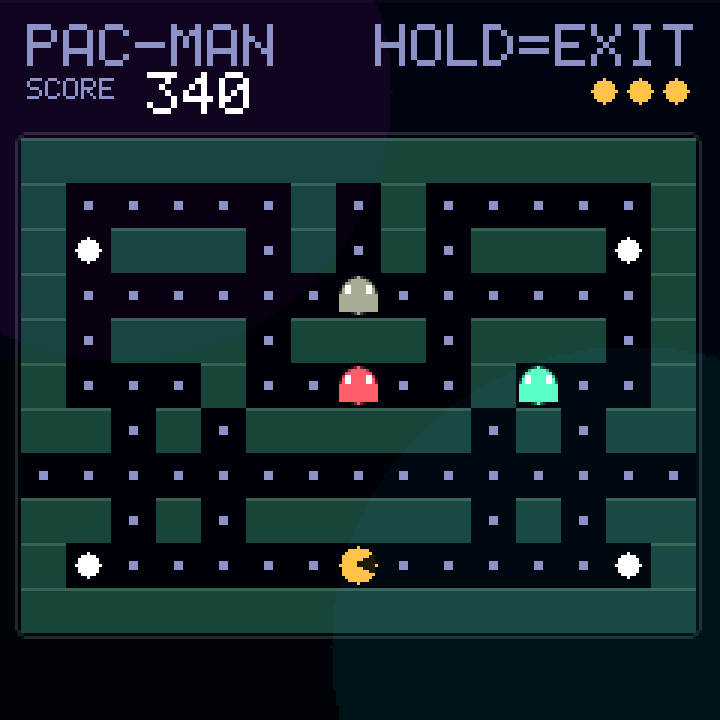
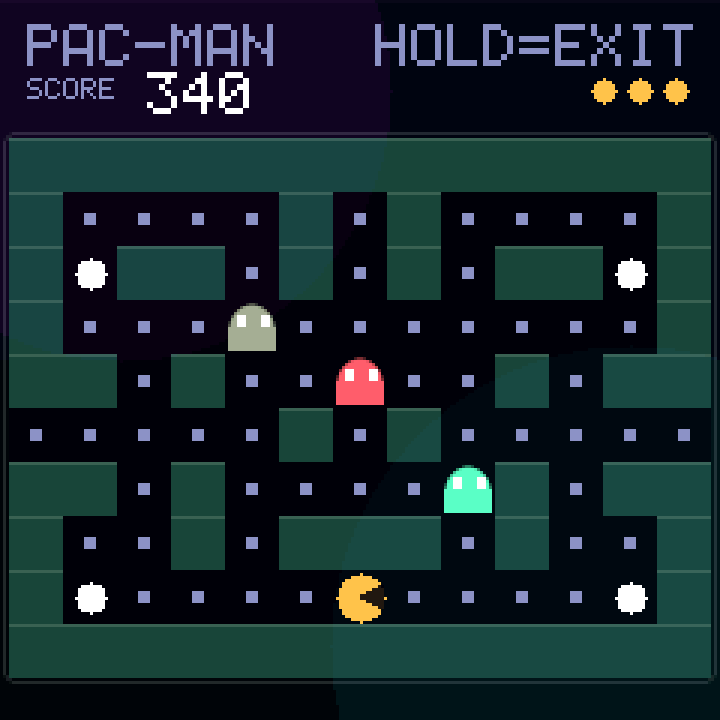
feat: both boards bigger again, and Mario at 50 fps
Rides on the SPIM3 commit before it - none of the frame rate here is
reachable at 8 MHz, where even the small actor band was 23 ms.

Pac-Man goes to 13x10 of 18px. That is as far as it goes on this panel: 13
columns is 234 wide, leaving the frame three pixels of margin, and one more
pixel per cell draws off the screen edge. The eater is 16px against the 10 it
shipped with, dots are 4px against 2. Fewer cells again, so the maze is
simpler and the RAM is down to 166 B.

Mario goes to 18px tiles over 10 rows, player 14x17, and the tick from 38 ms
to 20. The physics is re-solved for the new rate rather than scaled - the arc
is expressed per tick, so halving the tick without re-tuning would have
halved every distance in pixels-per-second. It comes out at 2.06 tiles of
jump, 4.5 across, against the same 3-tile pits, and 8.3 tiles/s of running
against 1.9 on the build that was flashed.

Two things the tests caught that reading would not have:

RUN_HOLD_TICKS was 3, which at a 20 ms tick is 60 ms - shorter than the 70 ms
auto-repeat interval it exists to outlast. Held keys would have stuttered,
and the symptom would have looked like an input bug rather than a constant
that had quietly stopped being big enough. Now 5.

The frame-budget test had 8 MHz hardcoded, so it would have kept passing on a
revert to spi0 while every push time quadrupled. It now reads the instance out
of the overlay and applies the SoC cap itself, which makes a revert show up as
[…]

diff --git a/src/games/mario/mario.c b/src/games/mario/mario.c
@@ -50,14 +50,14 @@
  * physics constant below is re-tuned to match: motion has to scale with the
  * tile or the character crawls across a bigger world.
  */
-#define TILE 16
+#define TILE 18
 #define LEVEL_W 64
-#define LEVEL_H 11
+#define LEVEL_H 10
 
 #define VIEW_X 0
 #define VIEW_Y 44
-#define VIEW_W GFX_W          /* 240 - 15 tiles visible */
-#define VIEW_H (LEVEL_H * TILE) /* 176 */
+#define VIEW_W GFX_W          /* 240 - 13 tiles visible */
+#define VIEW_H (LEVEL_H * TILE) /* 180 */
 
 #define HUD_Y 20
 #define HUD_H 22
@@ -75,8 +75,14 @@ typedef int32_t fix_t;
  * reaches 4.2 across, so a 3-tile pit has a tile of margin.
  * tests/games/test_mario_level.py re-derives that and fails if a pit grows.
  */
-#define GRAVITY 128       /* 0.50 px/tick^2 */
-#define JUMP_V (-1562)    /* -6.1 px/tick   */
+/*
+ * Re-tuned for a 20 ms tick on SPIM3. The arc is expressed per TICK, so
+ * halving the tick without touching these would halve every distance in
+ * pixels-per-second terms; instead the whole set is solved again for the new
+ * rate at 18px tiles - 2.06 tiles of height, 4.5 across, against 3-tile pits.
+ */
+#define GRAVITY 104       /* 0.41 px/tick^2 */
+#define JUMP_V (-1462)    /* -5.7 px/tick   */
 /*
  * RUN_V is the free speed knob. Jump HEIGHT is v^2/2g and depends only on
  * GRAVITY and JUMP_V, so running faster carries the same arc further rather
@@ -84,19 +90,19 @@ typedef int32_t fix_t;
  * 3-tile pit easier, never harder. Lowering the tick would speed everything
  * up too, but that is capped by how long a frame takes to push.
  */
-#define RUN_V 1075        /* 4.2 px/tick    */
+#define RUN_V 768         /* 3.0 px/tick    */
 #define MAX_FALL 2048     /* 8.0 px/tick    */
-#define ENEMY_V 230       /* 0.9 px/tick    */
+#define ENEMY_V 256       /* 1.0 px/tick    */
 
-#define PLAYER_W 12
-#define PLAYER_H 15
+#define PLAYER_W 14
+#define PLAYER_H 17
 
 /*
  * How long a direction keeps running after the last press. It has to exceed
  * CONFIG_NEXUS_ACTION_REPEAT_MS or a held key stutters; two ticks past it is
  * enough and still stops promptly on release.
  */
-#define RUN_HOLD_TICKS 3
+#define RUN_HOLD_TICKS 5
 
 #define TICK_MS CONFIG_NEXUS_MARIO_TICK_MS
 
@@ -105,7 +111,6 @@ typedef int32_t fix_t;
  * 'F' the flag. Solid is '#' and '='; everything else you walk through.
  */
 static const char *const level[LEVEL_H] = {
-	"                                                                ",
 	"                                                                ",
 	"                                                                ",
 	"                                                                ",
@@ -534,16 +539,16 @@ static void draw_player(int sx, int sy)
 
 	/* Cap and body in two colours, so which way it faces is readable at
 	 * 9x11 without drawing a face. */
-	gfx_rect(sx, sy, PLAYER_W, 5, t->error, GFX_OPAQUE);
-	gfx_rect(sx + (g_m.facing > 0 ? 4 : 0), sy + 3, PLAYER_W - 4, 2,
+	gfx_rect(sx, sy, PLAYER_W, 6, t->error, GFX_OPAQUE);
+	gfx_rect(sx + (g_m.facing > 0 ? 5 : 0), sy + 4, PLAYER_W - 5, 2,
 		 t->error, GFX_OPAQUE);
-	gfx_rect(sx + 1, sy + 5, PLAYER_W - 2, 6, t->warning, GFX_OPAQUE);
-	gfx_rect(sx, sy + 11, PLAYER_W, 4, t->accent_alt, GFX_OPAQUE);
+	gfx_rect(sx + 1, sy + 6, PLAYER_W - 2, 7, t->warning, GFX_OPAQUE);
+	gfx_rect(sx, sy + 13, PLAYER_W, 4, t->accent_alt, GFX_OPAQUE);
 
 	/* Legs alternate while running and hold apart in the air. */
 	if (!g_m.on_ground || (g_m.anim & 4)) {
-		gfx_rect(sx, sy + PLAYER_H - 2, 4, 2, t->value, GFX_OPAQUE);
-		gfx_rect(sx + PLAYER_W - 4, sy + PLAYER_H - 2, 4, 2, t->value,
+		gfx_rect(sx, sy + PLAYER_H - 2, 5, 2, t->value, GFX_OPAQUE);
+		gfx_rect(sx + PLAYER_W - 5, sy + PLAYER_H - 2, 5, 2, t->value,
 			 GFX_OPAQUE);
 	}
 }
@@ -557,8 +562,8 @@ static void draw_enemy(int sx, int sy)
 	gfx_rect(sx + 1, sy + PLAYER_H - 3, 3, 3, t->muted, GFX_OPAQUE);
 	gfx_rect(sx + PLAYER_W - 4, sy + PLAYER_H - 3, 3, 3, t->muted,
 		 GFX_OPAQUE);
-	gfx_rect(sx + 3, sy + 7, 3, 3, NEXUS_C(0xFFFFFFu), GFX_OPAQUE);
-	gfx_rect(sx + PLAYER_W - 6, sy + 7, 3, 3, NEXUS_C(0xFFFFFFu),
+	gfx_rect(sx + 3, sy + 8, 4, 4, NEXUS_C(0xFFFFFFu), GFX_OPAQUE);
+	gfx_rect(sx + PLAYER_W - 7, sy + 8, 4, 4, NEXUS_C(0xFFFFFFu),
 		 GFX_OPAQUE);
 }
 
@@ -621,10 +626,10 @@ static void mario_draw(void)
 				break;
 			case 'o':
 				if (!taken(r, c) && !(g_m.anim & 8)) {
-					gfx_disc(x + TILE / 2, y + TILE / 2, 5,
+					gfx_disc(x + TILE / 2, y + TILE / 2, 6,
 						 t->warning, GFX_OPAQUE);
 				} else if (!taken(r, c)) {
-					gfx_disc(x + TILE / 2, y + TILE / 2, 4,
+					gfx_disc(x + TILE / 2, y + TILE / 2, 5,
 						 t->warning, GFX_OPAQUE);
 				}
 				break;

diff --git a/scripts/render_ui.py b/scripts/render_ui.py
@@ -805,7 +805,7 @@ PAC_MAZE = re.findall(
     .split('\n};')[0])
 
 
-def pacman(cv, t, pac=(9, 7), pdir=1, ghosts=((5, 7), (3, 7), (5, 11)),
+def pacman(cv, t, pac=(8, 6), pdir=1, ghosts=((4, 6), (3, 4), (6, 8)),
            eaten=(), score='340', lives=3, fright=False, anim=0):
     u, K = UI(cv, t), PAC
     u.ground()
@@ -832,10 +832,10 @@ def pacman(cv, t, pac=(9, 7), pdir=1, ghosts=((5, 7), (3, 7), (5, 11)),
             elif (r, c) in eaten:
                 continue
             elif ch == '.':
-                cv.rect(x + CELL // 2 - 1, y + CELL // 2 - 1, 3, 3,
+                cv.rect(x + CELL // 2 - 2, y + CELL // 2 - 2, 4, 4,
                         t['caption'])
             elif ch == 'o' and not (anim & 2):
-                cv.disc(x + CELL // 2, y + CELL // 2, 4, t['value'])
+                cv.disc(x + CELL // 2, y + CELL // 2, 5, t['value'])
 
     for i, (gr, gc) in enumerate(ghosts):
         x, y = K['WELL_X'] + gc * CELL, K['WELL_Y'] + gr * CELL
@@ -844,8 +844,8 @@ def pacman(cv, t, pac=(9, 7), pdir=1, ghosts=((5, 7), (3, 7), (5, 11)),
         w = h = CELL - 2
         cv.round_rect(x + 1, y + 1, w, h, w // 2, body)
         cv.rect(x + 1, y + 1 + h // 2, w, h // 2, body)
-        cv.rect(x + 3, y + 4, 2, 3, 0xFFFF)
-        cv.rect(x + w - 3, y + 4, 2, 3, 0xFFFF)
+        cv.rect(x + 4, y + 5, 3, 4, 0xFFFF)
+        cv.rect(x + w - 4, y + 5, 3, 4, 0xFFFF)
 
     # The eater, with its mouth cut back out in the well colour.
     px_ = K['WELL_X'] + pac[1] * CELL
@@ -916,7 +916,7 @@ MAR_LEVEL = re.findall(
     .split(';')[0])
 
 
-def mario(cv, t, cam=140, player=(8, 14), facing=1, dead=(), score='1700',
+def mario(cv, t, cam=150, player=(7, 14), facing=1, dead=(), score='1700',
           lives=3, anim=0):
     u, K = UI(cv, t), MAR
     TILE, VY = K['TILE'], K['VIEW_Y']
@@ -942,7 +942,7 @@ def mario(cv, t, cam=140, player=(8, 14), facing=1, dead=(), score='1700',
                 cv.hline(x, y, TILE, t['edge_hi'], 90)
                 cv.hline(x, y + TILE - 1, TILE, t['edge_lo'], 110)
             elif ch == 'o':
-                cv.disc(x + TILE // 2, y + TILE // 2, 5, t['warning'])
+                cv.disc(x + TILE // 2, y + TILE // 2, 6, t['warning'])
             elif ch == 'F':
                 cv.rect(x + TILE // 2 - 1, y - TILE, 3, TILE * 2, t['value'])
                 cv.rect(x + TILE // 2 + 2, y - TILE, 9, 7, t['success'])
@@ -953,18 +953,18 @@ def mario(cv, t, cam=140, player=(8, 14), facing=1, dead=(), score='1700',
                 cv.rect(px_ + 1, py_ + K['PLAYER_H'] - 3, 3, 3, t['muted'])
                 cv.rect(px_ + K['PLAYER_W'] - 4, py_ + K['PLAYER_H'] - 3, 3, 3,
                         t['muted'])
-                cv.rect(px_ + 3, py_ + 7, 3, 3, 0xFFFF)
-                cv.rect(px_ + K['PLAYER_W'] - 6, py_ + 7, 3, 3, 0xFFFF)
+                cv.rect(px_ + 3, py_ + 8, 4, 4, 0xFFFF)
+                cv.rect(px_ + K['PLAYER_W'] - 7, py_ + 8, 4, 4, 0xFFFF)
 
     PW, PH = K['PLAYER_W'], K['PLAYER_H']
     sx = player[1] * TILE - cam
     sy = VY + player[0] * TILE
-    cv.rect(sx, sy, PW, 5, t['error'])
-    cv.rect(sx + (4 if facing > 0 else 0), sy + 3, PW - 4, 2, t['error'])
-    cv.rect(sx + 1, sy + 5, PW - 2, 6, t['warning'])
-    cv.rect(sx, sy + 11, PW, 4, t['accent_alt'])
-    cv.rect(sx, sy + PH - 2, 4, 2, t['value'])
-    cv.rect(sx + PW - 4, sy + PH - 2, 4, 2, t['value'])
+    cv.rect(sx, sy, PW, 6, t['error'])
+    cv.rect(sx + (5 if facing > 0 else 0), sy + 4, PW - 5, 2, t['error'])
+    cv.rect(sx + 1, sy + 6, PW - 2, 7, t['warning'])
+    cv.rect(sx, sy + 13, PW, 4, t['accent_alt'])
+    cv.rect(sx, sy + PH - 2, 5, 2, t['value'])
+    cv.rect(sx + PW - 5, sy + PH - 2, 5, 2, t['value'])
 
 
 # ------------------------------------------------------------------ main

diff --git a/src/games/pacman/pacman.c b/src/games/pacman/pacman.c
@@ -39,12 +39,14 @@
  * Fewer, larger cells cost maze complexity and buy pieces you can see - the
  * same trade Snake made going from 24x24 to 16x16.
  *
- * 15px rather than 16 so the well is 225 wide and the frame keeps a margin;
- * at 16 it is exactly 240 and the frame draws off the edge of the screen.
+ * 18px is as far as this goes: 13 columns of it is 234 wide, which leaves
+ * the frame three pixels of margin, and ten rows is 180 tall against the
+ * 190 the HUD leaves. One more pixel per cell and the frame draws off the
+ * edge of the screen.
  */
-#define COLS 15
-#define ROWS 11
-#define CELL 15
+#define COLS 13
+#define ROWS 10
+#define CELL 18
 
 #define WELL_W (COLS * CELL) /* 228 */
 #define WELL_H (ROWS * CELL) /* 180 */
@@ -87,17 +89,16 @@ static const int8_t dc[4] = { 0, 1, 0, -1 };
  * 'G' where the ghosts come out.
  */
 static const char *const maze_src[ROWS] = {
-	"###############",
-	"#.....#.#.....#",
-	"#o###.#.#.###o#",
-	"#.............#",
-	"#.###.###.###.#",
-	"#...#..G..#...#",
-	"##.#.#####.#.##",
-	"...............",
-	"##.#.#####.#.##",
-	"#o.....P.....o#",
-	"###############",
+	"#############",
+	"#....#.#....#",
+	"#o##.#.#.##o#",
+	"#...........#",
+	"##.#..G..#.##",
+	".....#.#.....",
+	"##.#.....#.##",
+	"#..#.###.#..#",
+	"#o....P....o#",
+	"#############",
 };
 
 struct actor {
@@ -505,8 +506,8 @@ static void draw_ghost(int x, int y, int idx)
 	gfx_rect(x + 1, y + 1 + h / 2, w, h / 2, body, GFX_OPAQUE);
 
 	/* Eyes, always white - they are what makes it read as a face at 10px. */
-	gfx_rect(x + 3, y + 4, 2, 3, NEXUS_C(0xFFFFFFu), GFX_OPAQUE);
-	gfx_rect(x + w - 3, y + 4, 2, 3, NEXUS_C(0xFFFFFFu), GFX_OPAQUE);
+	gfx_rect(x + 4, y + 5, 3, 4, NEXUS_C(0xFFFFFFu), GFX_OPAQUE);
+	gfx_rect(x + w - 4, y + 5, 3, 4, NEXUS_C(0xFFFFFFu), GFX_OPAQUE);
 }
 
 static void pacman_draw(void)
@@ -568,14 +569,14 @@ static void pacman_draw(void)
 				gfx_hline(x, y, CELL, t->edge_hi, 40);
 				break;
 			case DOT:
-				gfx_rect(x + CELL / 2 - 1, y + CELL / 2 - 1, 3,
-					 3, t->caption, GFX_OPAQUE);
+				gfx_rect(x + CELL / 2 - 2, y + CELL / 2 - 2, 4,
+					 4, t->caption, GFX_OPAQUE);
 				break;
 			case PELLET:
 				/* Blinks, so it reads as the thing worth
 				 * detouring for rather than as a big dot. */
 				if (!(g_p.anim & 2)) {
-					gfx_disc(x + CELL / 2, y + CELL / 2, 4,
+					gfx_disc(x + CELL / 2, y + CELL / 2, 5,
 						 t->value, GFX_OPAQUE);
 				}
 				break;

diff --git a/tests/games/test_mario_level.py b/tests/games/test_mario_level.py
@@ -167,7 +167,20 @@ def main():
     # and the game ran at about 11 fps in permanent slow motion. Repainting
     # the full view ONLY when the camera scrolls is what fixes that, and it is
     # invisible to every other test: the game still works, just crawls.
-    HZ = 8000000
+    # Derived from the overlay, not hardcoded. The panel's bus rate is the
+    # single number every frame budget here rests on, and it is a devicetree
+    # choice: spi0/1/2 are capped at 8 MHz by the SoC and the driver clamps
+    # silently, so a revert to &spi0 quadruples every push time without one
+    # line of C changing. Reading it means that shows up here as a failed
+    # tick budget rather than as a game that mysteriously crawls again.
+    ovl = open(os.path.join(ROOT, 'boards', 'shields', 'nexus_dongle',
+                            'nexus_dongle.overlay'), encoding='utf-8').read()
+    inst = re.search(r'^&(spi\d) \{', ovl, re.M).group(1)
+    asked = int(re.search(r'mipi-max-frequency = <(\d+)>', ovl).group(1))
+    HZ = min(asked, 32000000 if inst == 'spi3' else 8000000)
+    print('    panel on %s, %d MHz requested -> %d MHz effective'
+          % (inst, asked // 1000000, HZ // 1000000))
+
     full = num['LEVEL_H'] * num['TILE']
     band = 3 * num['TILE']
 

diff --git a/docs/games.md b/docs/games.md
@@ -170,8 +170,8 @@ Worth copying.
 | Tetris | 10x20 | ~245 B | integer grid, gravity on its own clock |
 | Snake | 16x16 | ~768 B | integer grid, ring of cells |
 | Breakout | free | ~24 B | 8.8 fixed point |
-| Pac-Man | 15x11 | ~180 B | integer grid, greedy chasers |
-| Mario | 64x11 | ~140 B | 8.8 fixed point, scrolling camera |
+| Pac-Man | 13x10 | ~170 B | integer grid, greedy chasers |
+| Mario | 64x10 | ~170 B | 8.8 fixed point, scrolling camera |
 
 Snake's board is 16x16 of 12px cells, not 24x24 of 8px. At 8px the snake was
 four faint slivers and the apple a speck -- on a panel you look at from across
@@ -252,7 +252,7 @@ life goes to a collision test that never ran.
 
 ### Pac-Man
 
-A 15x11 maze at 15px cells, 74 dots, four power pellets, three chasers and a
+A 13x10 maze at 18px cells, 61 dots, four power pellets, three chasers and a
 wrapping tunnel row.
 
 The board started at 19x15 of 12px and was rebuilt bigger after the first
@@ -269,7 +269,7 @@ same trade Snake made going from 24x24 to 16x16.
 "####.###.#.###.####",
 ```
 
-That costs 165 bytes of flash for the layout and buys a level you can read and
+That costs 130 bytes of flash for the layout and buys a level you can read and
 edit without counting bits. It also makes the level testable:
 `tests/games/test_pacman_maze.py` flood-fills it from the spawn and fails if a
 single dot is unreachable -- a walled-in dot makes the level uncompletable, and
@@ -306,7 +306,7 @@ repeats, with no new plumbing -- and the test asserts the window still outlasts
 the repeat interval, because if that inverts, running stutters and the cause is
 not obvious.
 
-**The level lives in flash.** 64x11 tiles of text is 704 bytes of flash and a
+**The level lives in flash.** 64x10 tiles of text is 640 bytes of flash and a
 level you can see; only what changes is in RAM -- a bit per coin, four enemies
 and the player, about 180 bytes against the 960 a mutable copy would need.
 

diff --git a/docs/ui.md b/docs/ui.md
@@ -250,8 +250,8 @@ plays, double-tap skips to the next one.
 | **Tetris** | 10x20 | ~245 B | Seven-bag randomiser, symmetric wall kicks, 100/300/500/800 per 1-4 lines times level. |
 | **Snake** | 16x16 | ~768 B | Walls or wrap, toggled in Settings. Moving into your own vacated tail is legal. |
 | **Breakout** | free | ~24 B | 8.8 fixed point, 5x8 bricks, three lives, paddle position steers the ball. |
-| **Pac-Man** | 15x11 | ~180 B | 74 dots, four power pellets, three chasers that never reverse, and a wrapping tunnel. |
-| **Mario** | 64x11 | ~140 B | A scrolling platformer. Level in flash, coins as a bitmask, and it repaints only the band that moved. |
+| **Pac-Man** | 13x10 | ~170 B | 61 dots, four power pellets, three chasers that never reverse, and a wrapping tunnel. |
+| **Mario** | 64x10 | ~170 B | A scrolling platformer. Level in flash, coins as a bitmask, and it repaints only the band that moved. |
 
 High scores persist per game and are written only when a record actually
 improves. Difficulty is a **runtime** setting, not a build option.
